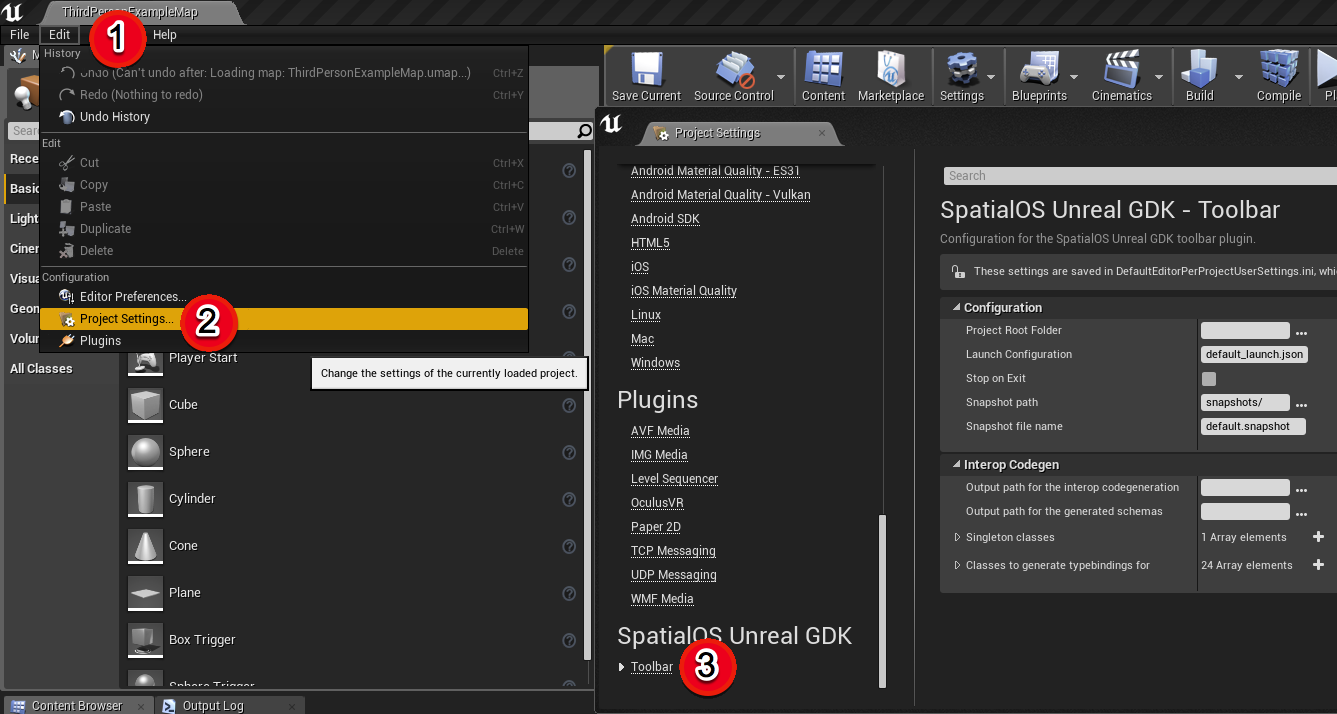
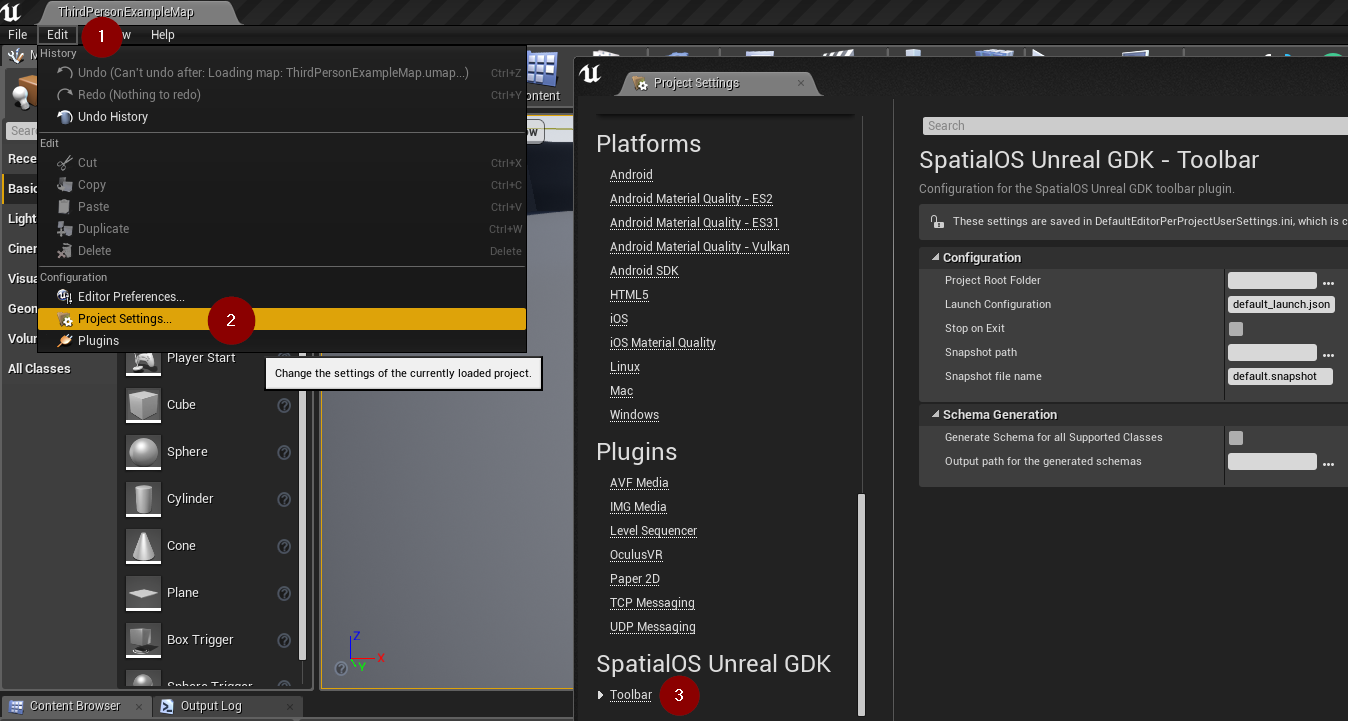
Updated toolbar docs (#431)
* Updated toolbar doc

* Fixed typo

* Updated images

* Updated review feedback

* Feedback

* Feedback

* Feedback

* Feedback

* Feedback

* Feedback

* Feedback

* Feedback

* Updated feedback

diff --git a/SpatialGDKEditorToolbar/Source/Public/SpatialGDKEditorToolbarSettings.h b/SpatialGDKEditorToolbar/Source/Public/SpatialGDKEditorToolbarSettings.h
@@ -27,19 +27,19 @@ public:
 
 private:
 	/** Root folder of your SpatialOS Unreal GDK project. */
-	UPROPERTY(EditAnywhere, config, Category = "Configuration", meta = (ConfigRestartRequired = false))
+	UPROPERTY(EditAnywhere, config, Category = "Configuration", meta = (ConfigRestartRequired = false, DisplayName = "Project root folder"))
 	FDirectoryPath ProjectRootFolder;
 public:
 	/** Launch configuration file used for `spatial local launch`. */
-	UPROPERTY(EditAnywhere, config, Category = "Configuration", meta = (ConfigRestartRequired = false, DisplayName = "Launch Configuration"))
+	UPROPERTY(EditAnywhere, config, Category = "Configuration", meta = (ConfigRestartRequired = false, DisplayName = "Launch configuration"))
 	FString SpatialOSLaunchConfig;
 
 	/** Stop `spatial local launch` when shutting down editor. */
-	UPROPERTY(EditAnywhere, config, Category = "Configuration", meta = (ConfigRestartRequired = false, DisplayName = "Stop on Exit"))
+	UPROPERTY(EditAnywhere, config, Category = "Configuration", meta = (ConfigRestartRequired = false, DisplayName = "Stop on exit"))
 	bool bStopSpatialOnExit;
 
 	/** Generate schema for all classes supported by the GDK */
-	UPROPERTY(EditAnywhere, config, Category = "Schema Generation", meta = (ConfigRestartRequired = false, DisplayName = "Generate Schema for all Supported Classes"))
+	UPROPERTY(EditAnywhere, config, Category = "Schema Generation", meta = (ConfigRestartRequired = false, DisplayName = "Generate schema for all supported classes"))
 	bool bGenerateSchemaForAllSupportedClasses;
 
 private:

diff --git a/SpatialGDK/Documentation/content/toolbar.md b/SpatialGDK/Documentation/content/toolbar.md
@@ -1,31 +1,22 @@
-<%(Callout type="warn" message="This [pre-alpha](https://docs.improbable.io/reference/latest/shared/release-policy#maturity-stages) release of the SpatialOS Unreal GDK is for evaluation and feedback purposes only, with limited documentation - see the guidance on [Recommended use]({{urlRoot}}/index#recommended-use)")%>
+# SpatialOS GDK for Unreal toolbar
 
-# SpatialOS Unreal GDK toolbar
+The GDK toolbar provides several functions required for building and launching your client and server-workers from inside the Unreal Editor.
 
-The SpatialOS Unreal GDK toolbar is an easy way to run and alter [`spatial` command-line tool](https://docs.improbable.io/reference/latest/shared/glossary#the-spatial-command-line-tool) (SpatialOS documentation) commands from inside the Unreal Editor.
+## Terms used in this doc
+`<ProjectRoot>` - The root folder of your Unreal project.  
+`<GameRoot>` - The folder containing your game's `.uproject` and source folder (for example, `<ProjectRoot>/ShooterGame/`).  
 
-## Add the SpatialOS Unreal GDK toolbar to your Unreal project
+## Add the GDK toolbar to your Unreal project
 
-To enable the SpatialOS Unreal GDK toolbar you need to add a dependency to the plugin in your Unreal project file.
-
-Either open your Unreal project's `.uproject` file in a text editor and add the SpatialOS Unreal GDK toolbar in the `Plugins` section:
-
-```
-"Plugins": [
-    {
-        "Name": "SpatialGDKEditorToolbar",
-        "Enabled": true
-    }
-],
-```
-
-Or inside the Unreal Editor, navigate to **Edit** > **Plugins** and scroll down to the bottom. Select the **SpatialOS Unreal GDK** section and enable the toolbar:
+To enable the GDK toolbar, navigate to **Edit** > **Plugins** inside the Unreal Editor and scroll down to the bottom. Select the **SpatialOS Unreal GDK** section and enable the toolbar:
 
 ![Toolbar]({{assetRoot}}assets/screen-grabs/toolbar/enable-toolbar.png)
 
+Note: The toolbar has already been setup if you based your project off the [StarterProject](https://github.com/spatialos/UnrealGDKStarterProject).
+
 ## Buttons
 
-The SpatialOS Unreal GDK toolbar has five features mapped to individual buttons, and is displayed in the main editor toolbar to the right of the `Launch` button:
+The GDK toolbar has five features mapped to individual buttons and is displayed in the main editor toolbar to the right of the `Launch` button:
 
  ![Toolbar]({{assetRoot}}assets/screen-grabs/toolbar/toolbar-buttons.png)
 
@@ -34,19 +25,19 @@ You can also access these from the **Window** menu:
  ![Toolbar]({{assetRoot}}assets/screen-grabs/toolbar/window-access.png)
 
 
-* Snapshot</br>
+* **Snapshot**</br>
 Generates a [SpatialOS snapshot](https://docs.improbable.io/reference/latest/shared/glossary#snapshot) (SpatialOS documentation).
 
-* Codegen</br>
+* **Schema**</br>
 Creates `schema` for your Unreal project.
 
-* Launch</br>
+* **Launch**</br>
 Runs [spatial worker build build-config](https://docs.improbable.io/reference/latest/shared/spatial-cli/spatial-worker-build-build-config) to build worker configs and runs `spatial local launch` with the launch configuration specified in the settings (see [below](#settings)).
 
-* Stop</br>
+* **Stop**</br>
 Stops `spatial local launch`.
 
-* Inspector</br>
+* **Inspector**</br>
 Opens the [Inspector](https://docs.improbable.io/reference/latest/shared/glossary#inspector) (SpatialOS documentation) in a browser.
 
 ## Settings
@@ -57,27 +48,25 @@ The toolbar settings are in **Edit** > **Project Settings** > **SpatialOS Unreal
 
 * **Configuration**
 
-    * **Project Root Folder**</br>
-    If you're using a non-standard structure, you'll need to set this yourself. This is empty by default. If you leave it empty, it defaults to `<ProjectFileLocation>/../spatial`.
+    * **Project root folder**</br>
+    If you're using a non-standard structure, you'll need to set this yourself. This is empty by default. If you leave it empty, it defaults to `<GameRoot>/../spatial`.
 
-    * **Launch Configuration**</br>
+    * **Launch configuration**</br>
     The [launch configuration file](https://docs.improbable.io/reference/latest/shared/reference/file-formats/launch-config) (SpatialOS documentation) to use when running `spatial local launch` using the `Launch` button.
 
-    * **Stop on Exit**</br>
+    * **Stop on exit**</br>
     If enabled, shuts down running deployments when you close the Unreal Editor.
 
     * **Snapshot path**</br>
-    Use this to specify the filepath of your Unreal GDK snapshot. If you leave this empty, it defaults to `<ProjectFileLocation>/../spatial/snapshots`.
+    Use this to specify the filepath of your snapshot. If you leave this empty, it defaults to `<GameRoot>/../spatial/snapshots`.
 
     * **Snapshot file name**</br>
-    Name of your SpatialOS Unreal GDK snapshot file.
+    Name of your snapshot file.
 
-* **Schema Generator**
+* **Schema Generation**
 
-    * **Generate Schema for all Supported Classes**</br>
-    **Experimental** Use this to generate schema for all `AActor` and `UActorComponent` classes (which *don't* extend `USceneComponent`) without explicitly tagging them as `SpatialType` within their UCLASS defintion. 
-    `USceneComponent` is unsupported due to there often being multiple of these components on an Actor which isn't currently supported.
-    If you have `UActorComponent`s which don't extend `USceneComponent` but exist in multiple on an Actor, *this can potentially crash your game*. Make sure there are never multiple components of the same type on an Actor. If there are make sure you modify your Actor to only have one, or use the explicit `SpatialType` tagging approach and don't tag the duplicate `UActorComponent`.
+    * **Generate schema for all supported classes**</br>
+    **Experimental** Use this to generate schema for all UObjects that have replicated or handover properties. As the GDK does not currently support multiple replicated Actor components of the same type on an Actor, classes extended from `USceneComponent` doesn't generate schemas.
 
     * **Output path for the generated schemas**</br>
-    Use this to specify the filepath of ICG-generated schema file.  If you leave this empty, it defaults to `<ProjectFileLocation>/../spatial/schema/improbable/unreal/generated/`.
+    Use this to specify the path of the generated schema files.  If you leave this empty, it defaults to `<GameRoot>/../spatial/schema/improbable/unreal/generated/`.
